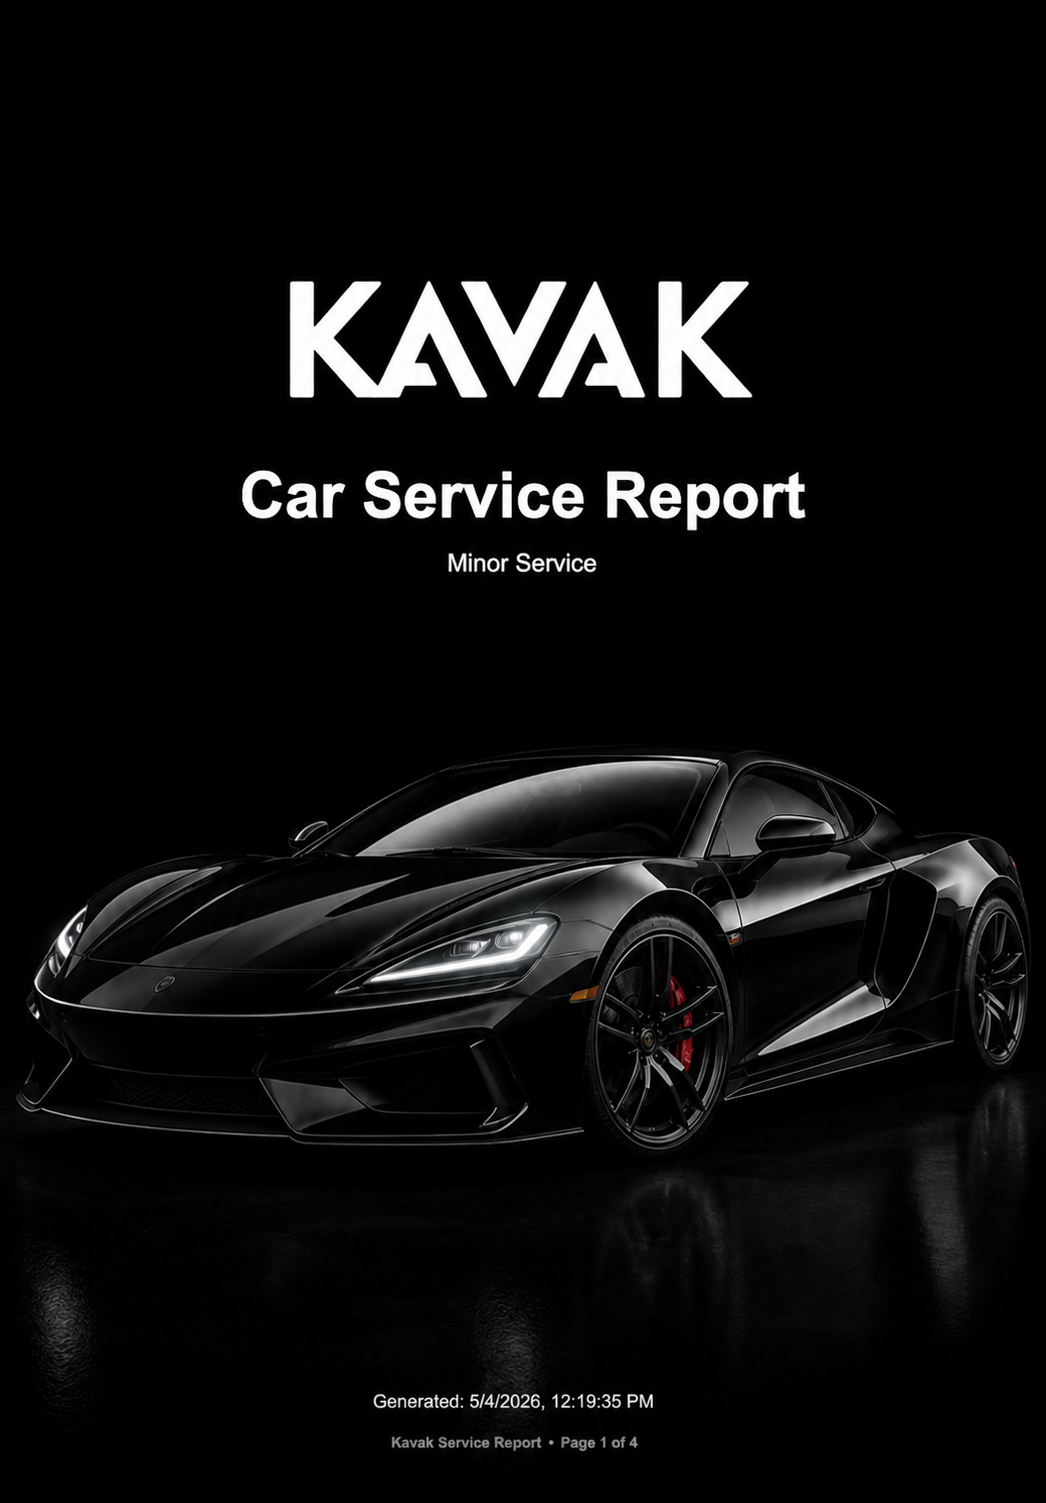
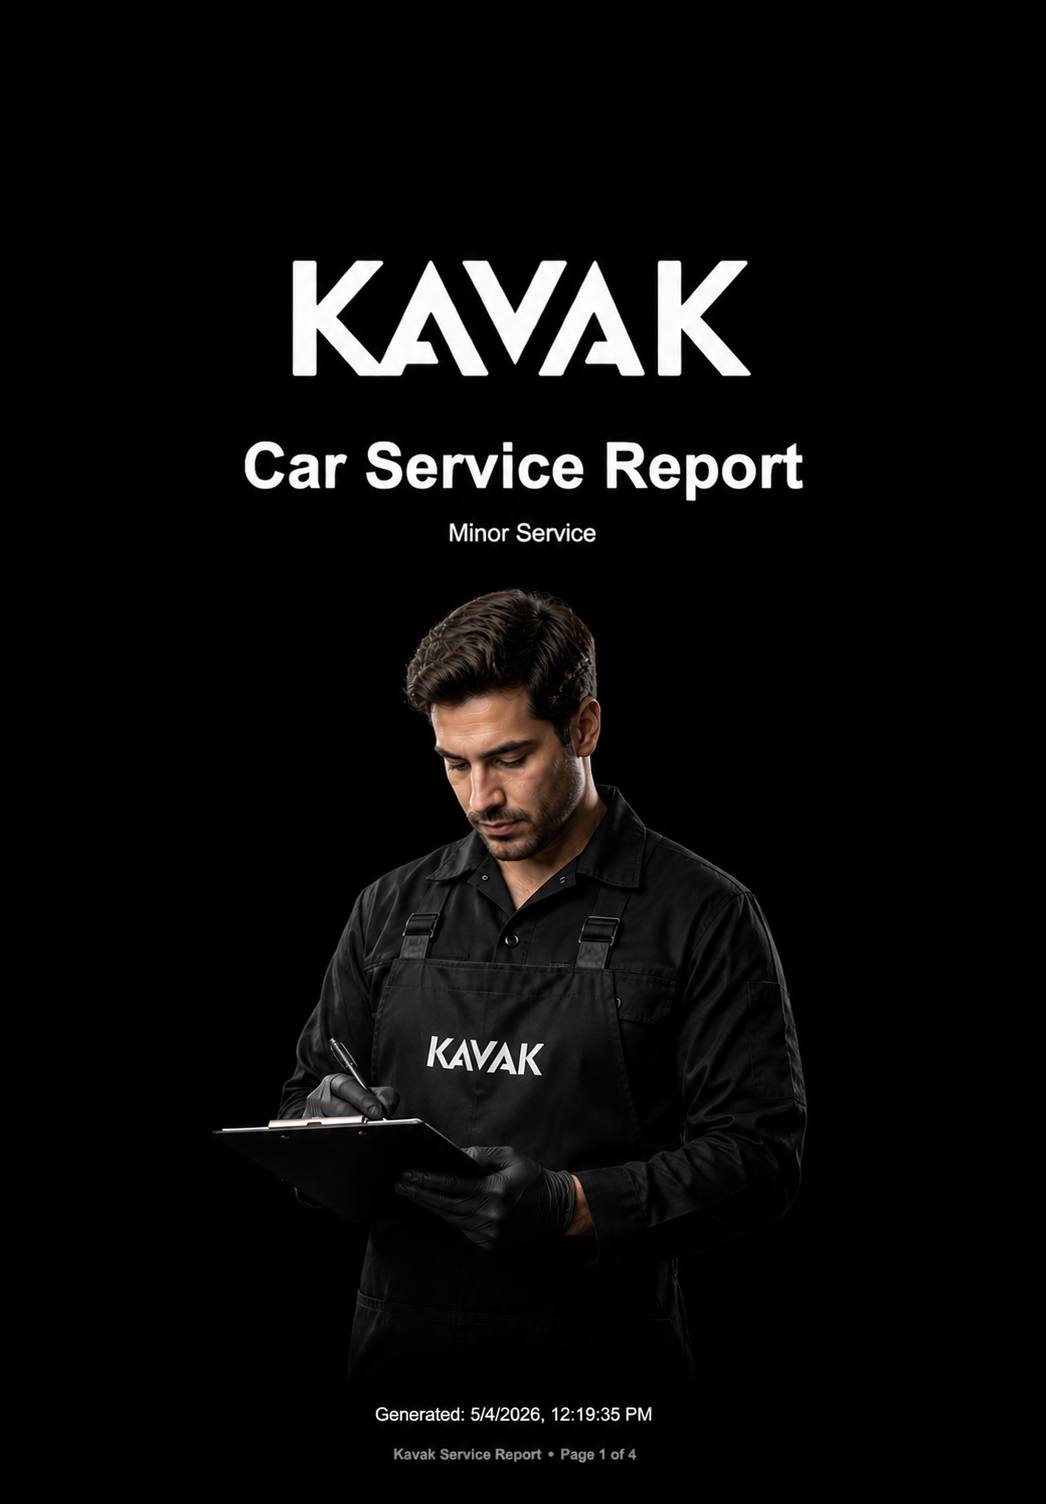
Changes

diff --git a/src/lib/generateReportPdf.ts b/src/lib/generateReportPdf.ts
@@ -80,28 +80,40 @@ function drawCoverPage(
     }
   }
 
-  // The artwork has a static "Minor Service" subtitle baked in.
-  // Cover that strip generously with black, then draw the dynamic tier label.
-  const stripY = pageHeight * 0.36;
-  const stripH = pageHeight * 0.08;
+  // The artwork has a static "Minor Service" subtitle baked in just below
+  // "Car Service Report". Cover it with black, then draw the dynamic tier label.
+  const stripY = pageHeight * 0.40;
+  const stripH = pageHeight * 0.07;
   doc.setFillColor(0, 0, 0);
   doc.rect(0, stripY, pageWidth, stripH, "F");
 
   doc.setTextColor(255, 255, 255);
   doc.setFont("helvetica", "normal");
   doc.setFontSize(18);
-  doc.text(tierLabel, pageWidth / 2, stripY + stripH * 0.65, { align: "center" });
+  doc.text(tierLabel, pageWidth / 2, stripY + stripH * 0.7, { align: "center" });
 
   // Cover the baked-in footer text ("Generated: ..." + "Kavak Service Report • Page 1 of 4")
   // at the bottom of the artwork with a tall black band, then draw only the
-  // dynamic generated timestamp.
+  // dynamic generated timestamp + correct page number.
   doc.setFillColor(0, 0, 0);
   doc.rect(0, pageHeight - 90, pageWidth, 90, "F");
 
   doc.setTextColor(220, 220, 220);
   doc.setFont("helvetica", "normal");
   doc.setFontSize(10);
-  doc.text(`Generated: ${generatedAt}`, pageWidth / 2, pageHeight - 40, { align: "center" });
+  doc.text(`Generated: ${generatedAt}`, pageWidth / 2, pageHeight - 50, { align: "center" });
+
+  doc.setFontSize(9);
+  doc.setTextColor(180, 180, 180);
+  const totalPages = (doc as any).internal.getNumberOfPages
+    ? (doc as any).internal.getNumberOfPages()
+    : 4;
+  doc.text(
+    `Kavak Service Report  •  Page 1 of ${totalPages}`,
+    pageWidth / 2,
+    pageHeight - 30,
+    { align: "center" },
+  );
 }
 
 async function loadImageWithSize(

diff --git a/.lovable/plan.md b/.lovable/plan.md
@@ -1,122 +1,40 @@
-
 ## Goal
 
-Make the platform mirror the attached PDF exactly: ask for **Service Type** first, then show only the items in the PDF, with action options that change based on the chosen tier (Minor / Intermediate / Major).
+Replace the PDF cover artwork with the newly uploaded image, keep all prior cover-page fixes intact, and remove the Kavak logo from the platform UI (Landing + ReportDone) while keeping it inside the PDF.
 
----
+## Changes
 
-## 1. Landing page tweak
+### 1. Replace cover artwork (`src/assets/kavak-cover-car.png`)
+- Copy the newly uploaded image `user-uploads://ChatGPT_Image_May_4_2026_04_36_37_PM.png` over `src/assets/kavak-cover-car.png`.
+- The PDF generator already imports this path, so no import changes are needed.
 
-- Remove the line "Capture every check, every measurement, every note." from `src/pages/Landing.tsx`. Keep the Begin Report button and Kavak branding.
+### 2. Re-tune the cover overlays in `src/lib/generateReportPdf.ts`
 
-## 2. New "Service Type" step (right after Begin Report)
+The new artwork has:
+- "Car Service Report" title roughly centered vertically in the upper third
+- A baked-in "Minor Service" subtitle directly below it (must be hidden so only the dynamically selected tier shows)
+- A baked-in footer "Generated: 5/4/2026, 12:19:35 PM" + "Kavak Service Report • Page 1 of 4" near the bottom (must be hidden so only dynamic values show)
 
-A dedicated page (no intro screen) with three large selectable cards:
+Adjustments inside `drawCoverPage`:
+- Move the black overlay strip that hides the baked-in "Minor Service" subtitle to match its new vertical position in this artwork (approx. `stripY = pageHeight * 0.41`, `stripH = pageHeight * 0.06`), then redraw the dynamic `tierLabel` centered on that strip.
+- Keep the bottom black band that masks the baked-in footer text, and redraw only the dynamic `Generated: <timestamp>` line.
+- Keep the page-number footer loop starting at `i = 2` (cover already shows "Page 1 of 4" via the redraw — see next bullet).
+- Add a dynamic "Page 1 of N" line on the cover under the timestamp so the cover correctly reads "Page 1 of 4".
 
-- **Minor Service**
-- **Intermediate Service**
-- **Major Service**
+### 3. Remove the logo from the platform (keep in PDF)
 
-Stored as `service.type`. Required before proceeding. This selection drives every checklist's available actions later in the form.
+- `src/pages/Landing.tsx`: remove the `<header>` block that renders `<img src={logoWhite} ... />` and the `logoWhite` import.
+- `src/pages/ReportDone.tsx`: same — remove the header `<img>` and its import.
+- Do NOT touch `src/lib/generateReportPdf.ts`'s logo import; the PDF logo asset stays untouched.
 
-## 3. Vehicle & Customer section — keep structure, fix data
+## Files touched
 
-Keep the existing 3 pages and field labels. Changes:
+- `src/assets/kavak-cover-car.png` (replaced with new upload)
+- `src/lib/generateReportPdf.ts` (overlay strip position + dynamic "Page 1 of N" on cover)
+- `src/pages/Landing.tsx` (remove logo header)
+- `src/pages/ReportDone.tsx` (remove logo header)
 
-- Remove the pre-filled default value for "Vehicle make & model" (it currently shows "Honda Accord" — make it empty like every other field).
-- Replace all real-looking placeholders with clearly fake samples:
-  - Make & model placeholder: `e.g. Toyota Corolla`
-  - Registration: `e.g. AB/12345`
-  - VIN: `e.g. 1XXXX0000XX000000`
-  - Mileage: `e.g. 30,000 KM`
-  - Customer name: `e.g. John Doe`
-  - Customer contact: `e.g. 555-0100`
-  - Service advisor name: `e.g. Jane Smith`
+## Out of scope
 
-## 4. Rebuild remaining sections to match the PDF EXACTLY
-
-Use the PDF's section order and item list. Anything not in the PDF (A/C performance, A/C condenser exterior, A/C vent temperature, tyre pressure adjusted yes/no, wheel balancing yes/no, brake disc thickness, service reminder reset, complimentary wash, test drive notes, suggested refurb section) gets **removed**.
-
-Order and items (each row will be a checklist field; actions populated dynamically from the chosen service tier):
-
-### Interior (6 items)
-1. All Seats & Seat Belts — Minor: I, Inter: I, Major: I
-2. Power Window, Mirrors & Sliding Roof — I/L, I/L, I/L
-3. Interior Lights, Horn & Gauges — I, I, I
-4. Parking Brake Operation — I/A, I/A, I/A
-5. Windshield Washer & Wipers — I, I, I
-6. AC Operation — I, I, I
-
-### Exterior (6 items)
-1. AC Filter / Cabin Air Filter — C, R, R
-2. All Door Hinges & Locks — L, L, L
-3. Engine Hood, Hood Stay & Hood Lock — I/L, I/L, I/L
-4. Trunk Lid, Trunk Stay & Trunk Lock — I/L, I/L, I/L
-5. Front & Rear Wiper Blades — I, I, I
-6. Front & Rear Windshield & Lights — I, I, I
-
-### Under Chassis (18 items)
-Engine Oil and Oil Filter (R/R/R), MTM/ATM Oil (I/I/I), ATM Oil (WS) (I/I/I), CVT Oil (I/I/I), Transfer Box Oil (I/I/I), Differential Oil (I/I/I), Coolant (I/I/I), Brake Pipes & Hoses (I/I/I), Fuel Lines & Connections (I/I/I), Steering Wear and Leaks (I/I/I), Propeller Shaft (I&L/I&L/I&L), Drive Shaft Boots (I/I/I), Ball Joints and Dust Cover (I/I/I), Front and Rear Shock Absorber (I/I/I), Front and Rear Suspension Bush (I/I/I), Wheel Bearings (I/I/I), Exhaust Pipes and Mounting (I/I/I), Engine and Gear Box Mounting (I/I/I).
-
-### Wheel Area (4 items + measurement fields)
-1. Tyre Condition and Tyre Pressure — I/A, I/A, I/A
-   - Plus four tyre-thickness number inputs: Front Left, Front Right, Rear Left, Rear Right (mm)
-2. Front Brake Pads and Discs — I, I, I/C
-   - Plus brake-pad-thickness number inputs (Front Left, Front Right, Rear Left, Rear Right) attached to this row per the PDF.
-3. Rear Brake Pads and Discs — I, I, I/C
-4. Parking Brake — I, I, I/A
-
-### Engine Room (11 items)
-Air Filter (C/C/R), Fuel Filter (I/I/I), Spark Plugs Normal (I/I/I), Spark Plugs Platinum/Iridium (I/I/I), Battery Electrolyte and Connections (C/L for all three), Battery Report (I/I/I), Brake Fluid (I/I/R), Windshield Fluid (I/I/I), Power Steering Fluid (I/I/I), Drive Belts (I/I/I), Timing Belt (— / — / R).
-
-For Timing Belt: in Minor and Intermediate the row appears as **Not Applicable** (disabled with a clear "Not part of this service" label) and in Major the action is Replace.
-
-### Final Check (3 items)
-1. All Wheel Nuts Torque — I/T, I/T, I/T
-2. All Fluids Level — I, I, I
-3. Connection Caps and Covers — I, I, I
-
-## 5. Action code → full name mapping
-
-When rendering checklist options, expand the codes from the PDF into full words:
-
-- I → Inspection
-- L → Lubricate
-- A → Adjust
-- C → Clean
-- R → Replace
-- T → Torque
-- `/` and `&` between codes mean both actions apply. Render each action as a separate selectable checkbox so the technician can confirm each.
-
-## 6. Tier-driven dynamic options
-
-- Each checklist field defines `actionsByTier: { minor: string[]; intermediate: string[]; major: string[] }`.
-- At render time, the form reads `answers["service.type"]` and shows only that tier's actions for each row.
-- Each checklist row keeps its existing **optional notes/remarks textbox** (unchanged behaviour).
-- If a row has no action for the selected tier (only Timing Belt in Minor/Intermediate), show it as Not Applicable, non-interactive, and skip it from required checks.
-
-## 7. Keep existing UX
-
-- Typeform-style transitions, progress bar, multi-fields-per-page grouping, Back button, keyboard navigation — all retained.
-- Review screen and Submit flow stay the same: POST to the n8n webhook with labelled keys, then generate the PDF.
-
-## 8. PDF generator update
-
-`src/lib/generateReportPdf.ts` will be updated to:
-- Output sections in PDF order: Interior → Exterior → Under Chassis → Wheel Area → Engine Room → Final Check.
-- Show the chosen Service Type at the top.
-- For each row, list the full action names the technician confirmed plus their notes.
-- Drop the removed fields (refurb, test drive, etc.).
-
----
-
-## Technical notes
-
-- `reportSchema.ts`: extend `FieldStep` checklist variant with `actionsByTier` instead of a single `actions` array; add a new `serviceType` step kind. Add `notApplicableTiers?: ("minor"|"intermediate"|"major")[]` for Timing Belt.
-- `Report.tsx`: read `answers["service.type"]`; gate navigation past the Service Type page until a tier is chosen; pass the tier into the checklist renderer.
-- `buildPayload.ts`: no change needed — flat keys still flow through; `service.type` will appear at top level in the webhook payload.
-- Routing: keep `/report` as the single flow; the Service Type step is just the first page.
-
-## Open question
-
-The PDF lists "Spark Plugs (Normal)" and "Spark Plugs (Platinum/Iridium)" as separate rows. I'll include both as separate items (technician marks whichever applies and can leave the other blank). If you'd rather have a single "Spark Plug type" selector that swaps to one row, let me know — otherwise I'll proceed with two rows as in the PDF.
+- No schema/form changes.
+- No changes to body pages of the PDF.
